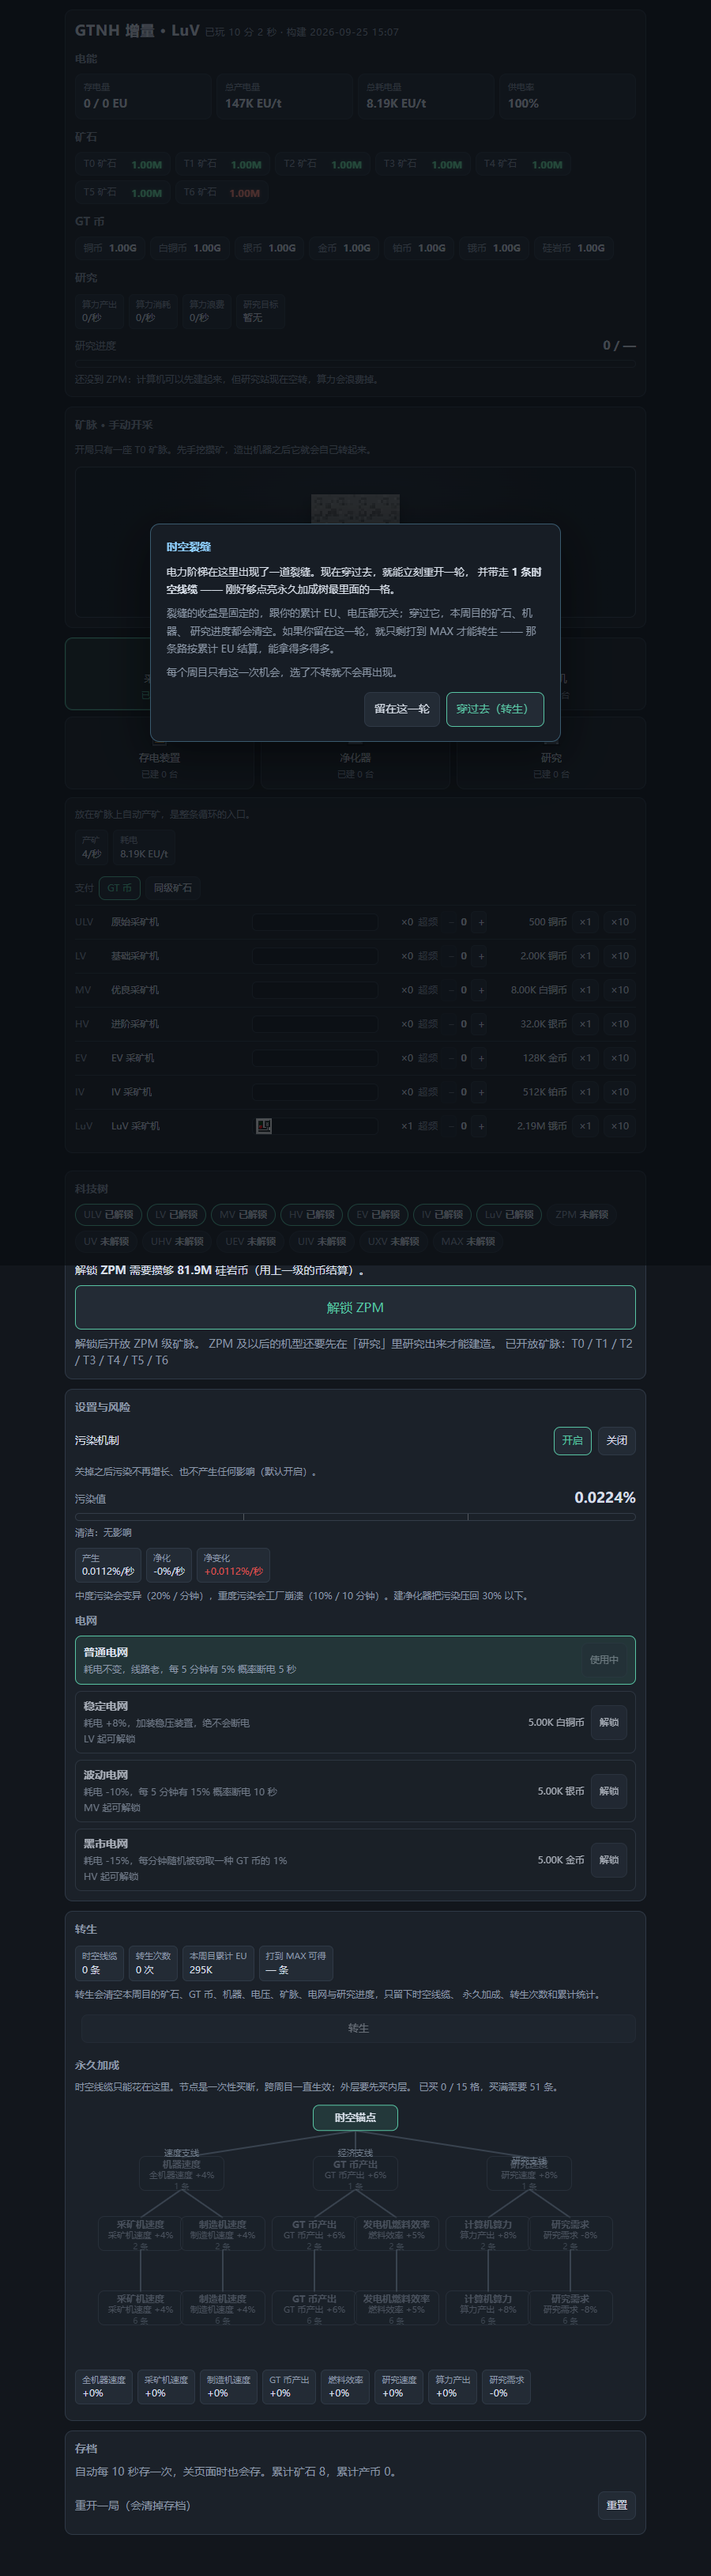
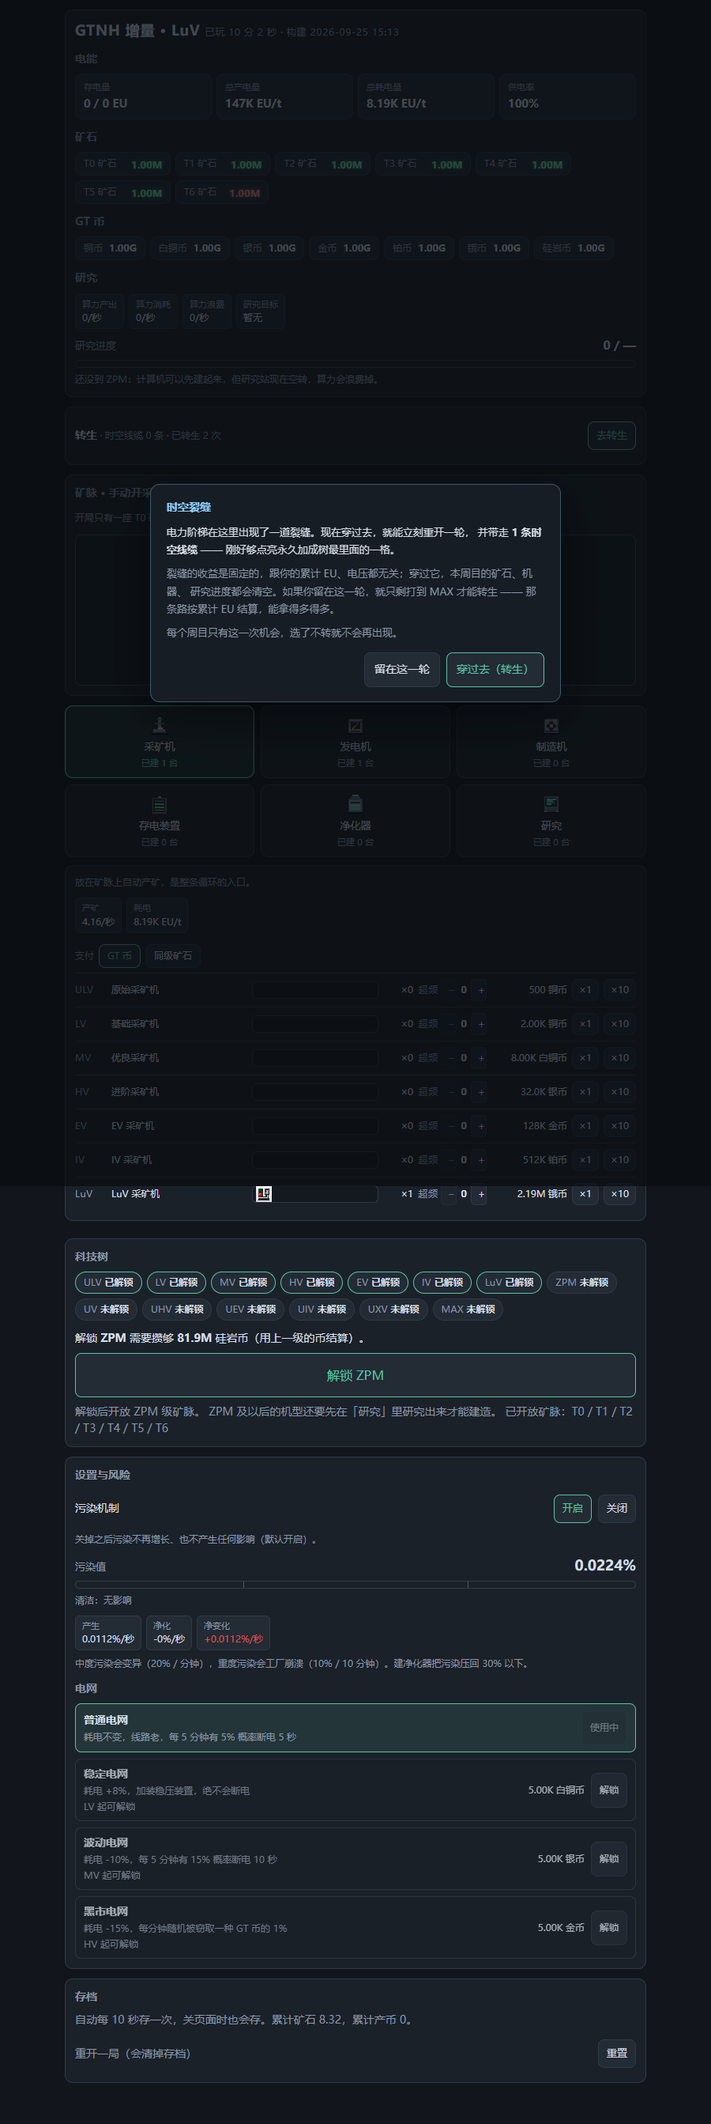
转生改成独立页面：进去之后只显示转生内容
原来转生是接在工厂下面的内嵌面板，改成工厂 / 转生两个独立页面：主界面顶部一行入口（线缆余额与次数摘要 + 去转生按钮），进转生页后工厂的资源条、矿脉、机器、科技树、风险面板一律不渲染，页面里只有转生统计、转生按钮、加成树与已生效加成，点回到工厂返回。时空裂缝拆成独立弹窗，穿过去之后自动进转生页。计划书第十章与 status.md 同步。

diff --git a/src/components/RebirthPage.vue b/src/components/RebirthPage.vue
@@ -3,10 +3,12 @@ import { computed } from 'vue';
 import { useGameStore, type RebirthNodeRow } from '../game/store';
 import { REBIRTH_NODES } from '../game/rebirth';
 
+// 独立的转生页面：进来之后只显示转生相关的东西，工厂界面完全不出现。
+// 从主界面顶部的入口进来，或转生刚发生时自动进来；点「回到工厂」返回。
+const emit = defineEmits<{ close: [] }>();
 const store = useGameStore();
 const rebirth = computed(() => store.snap.rebirth);
 
-// 树的连线：根 → 每条支线的第一格，再按 requires 连到下一层
 interface Link {
   key: string;
   x1: number;
@@ -15,13 +17,22 @@ interface Link {
   y2: number;
 }
 
+// 树的连线：根 → 每条支线的第一格，再按前置关系连到下一层
 const links = computed<Link[]>(() => {
   const byId = new Map(REBIRTH_NODES.map((node) => [node.id, node]));
   const out: Link[] = [];
   for (const node of REBIRTH_NODES) {
-    const parents = node.requires.length === 0 ? [null] : node.requires;
-    for (const parentId of parents) {
-      if (parentId === null) continue;
+    if (node.layer === 1) {
+      out.push({
+        key: `root->${node.id}`,
+        x1: rebirth.value.root.x,
+        y1: rebirth.value.root.y + 16,
+        x2: node.x,
+        y2: node.y - 20,
+      });
+      continue;
+    }
+    for (const parentId of node.requires) {
       const parent = byId.get(parentId);
       if (!parent) continue;
       out.push({
@@ -33,25 +44,14 @@ const links = computed<Link[]>(() => {
       });
     }
   }
-  // 根节点连到三条支线的第一格
-  for (const node of REBIRTH_NODES) {
-    if (node.layer !== 1) continue;
-    out.push({
-      key: `root->${node.id}`,
-      x1: rebirth.value.root.x,
-      y1: rebirth.value.root.y + 16,
-      x2: node.x,
-      y2: node.y - 20,
-    });
-  }
   return out;
 });
 
-const branches = computed(() => [
+const branches = [
   { id: 'speed', title: '速度支线' },
   { id: 'economy', title: '经济支线' },
   { id: 'research', title: '研究支线' },
-]);
+];
 
 function nodeClass(node: RebirthNodeRow) {
   return { owned: node.owned, buyable: !node.owned && node.buyable };
@@ -59,35 +59,44 @@ function nodeClass(node: RebirthNodeRow) {
 </script>
 
 <template>
-  <section class="panel">
-    <h2>转生</h2>
-    <dl class="stats">
-      <div class="stat">
-        <dt>时空线缆</dt>
-        <dd>{{ rebirth.cables }} 条</dd>
+  <section class="panel rebirth-page">
+    <div class="rebirth-head">
+      <div>
+        <h1>转生</h1>
+        <p class="muted small" style="margin: 4px 0 0">
+          转生会清空本周目的矿石、GT 币、机器、电压、矿脉、电网与研究进度，
+          只留下时空线缆、永久加成、转生次数和累计统计。
+        </p>
       </div>
-      <div class="stat">
-        <dt>转生次数</dt>
-        <dd>{{ rebirth.count }} 次</dd>
-      </div>
-      <div class="stat">
-        <dt>本周目累计 EU</dt>
-        <dd>{{ rebirth.runEU }}</dd>
-      </div>
-      <div class="stat">
-        <dt>打到 MAX 可得</dt>
-        <dd>{{ rebirth.maxCables }} 条</dd>
-      </div>
-    </dl>
+      <button @click="emit('close')">回到工厂</button>
+    </div>
 
-    <p class="muted small" style="margin: 8px 0 0">
-      转生会清空本周目的矿石、GT 币、机器、电压、矿脉、电网与研究进度，只留下时空线缆、
-      永久加成、转生次数和累计统计。
-    </p>
+    <div class="power-row">
+      <div class="power-box static">
+        <span class="power-label">时空线缆</span>
+        <b class="power-value">{{ rebirth.cables }} 条</b>
+      </div>
+      <div class="power-box static">
+        <span class="power-label">转生次数</span>
+        <b class="power-value">{{ rebirth.count }} 次</b>
+      </div>
+      <div class="power-box static">
+        <span class="power-label">本周目累计 EU</span>
+        <b class="power-value">{{ rebirth.runEU }}</b>
+      </div>
+      <div class="power-box static">
+        <span class="power-label">打到 MAX 可得</span>
+        <b class="power-value">{{ rebirth.maxCables }} 条</b>
+      </div>
+    </div>
 
-    <div class="row" style="margin-top: 10px">
+    <div class="row" style="margin-top: 12px">
       <div class="name">
-        {{ rebirth.canRebirth ? '已达 MAX，可以转生' : '还没到 MAX，只能等时空裂缝（每周目一次）' }}
+        {{
+          rebirth.canRebirth
+            ? '已达 MAX：现在转生按累计 EU 结算'
+            : '还没到 MAX：只能等时空裂缝（每周目一次）'
+        }}
       </div>
       <button
         class="big"
@@ -147,34 +156,17 @@ function nodeClass(node: RebirthNodeRow) {
       </div>
     </div>
 
+    <h2 class="mt">已生效的加成</h2>
     <dl class="stats">
       <div v-for="bonus in rebirth.bonuses" :key="bonus.label" class="stat">
         <dt>{{ bonus.label }}</dt>
         <dd>{{ bonus.value }}</dd>
       </div>
     </dl>
-  </section>
 
-  <!-- 时空裂缝：本周目第一次到 LuV 时弹一次 -->
-  <Teleport to="body">
-    <div v-if="rebirth.riftPending" class="rift-backdrop">
-      <div class="rift-dialog">
-        <h2>时空裂缝</h2>
-        <p>
-          电力阶梯在这里出现了一道裂缝。现在穿过去，就能立刻重开一轮，
-          并带走 <b>1 条时空线缆</b> —— 刚好够点亮永久加成树最里面的一格。
-        </p>
-        <p class="muted small">
-          裂缝的收益是固定的，跟你的累计 EU、电压都无关；穿过它，本周目的矿石、机器、
-          研究进度都会清空。如果你留在这一轮，就只剩打到 MAX 才能转生 ——
-          那条路按累计 EU 结算，能拿得多得多。
-        </p>
-        <p class="muted small">每个周目只有这一次机会，选了不转就不会再出现。</p>
-        <div class="rift-actions">
-          <button @click="store.declineRift()">留在这一轮</button>
-          <button class="primary" @click="store.rebirth('rift')">穿过去（转生）</button>
-        </div>
-      </div>
+    <div class="row" style="margin-top: 16px">
+      <div class="name muted">加成买完就回工厂继续下一轮</div>
+      <button @click="emit('close')">回到工厂</button>
     </div>
-  </Teleport>
+  </section>
 </template>

diff --git a/src/App.vue b/src/App.vue
@@ -1,14 +1,18 @@
 <script setup lang="ts">
-import { onMounted } from 'vue';
+import { computed, onMounted, ref } from 'vue';
 import { useGameStore } from './game/store';
 import ResourceBar from './components/ResourceBar.vue';
 import MachinePanel from './components/MachinePanel.vue';
 import VeinPanel from './components/VeinPanel.vue';
 import TechTreePanel from './components/TechTreePanel.vue';
 import RiskPanel from './components/RiskPanel.vue';
-import RebirthPanel from './components/RebirthPanel.vue';
+import RebirthPage from './components/RebirthPage.vue';
+import RiftDialog from './components/RiftDialog.vue';
 
 const store = useGameStore();
+// 工厂与转生是两个独立的页面：进转生页时只显示转生内容
+const view = ref<'factory' | 'rebirth'>('factory');
+const rebirth = computed(() => store.snap.rebirth);
 
 onMounted(() => {
   store.boot();
@@ -17,27 +21,43 @@ onMounted(() => {
 </script>
 
 <template>
-  <ResourceBar />
+  <RebirthPage v-if="view === 'rebirth'" @close="view = 'factory'" />
 
-  <VeinPanel />
+  <template v-else>
+    <ResourceBar />
 
-  <MachinePanel :columns="store.snap.columns" />
+    <section class="panel">
+      <div class="row">
+        <div class="name">
+          <b>转生</b>
+          <span class="muted small"> · 时空线缆 {{ rebirth.cables }} 条 · 已转生 {{ rebirth.count }} 次</span>
+        </div>
+        <button :class="{ primary: rebirth.canRebirth || rebirth.riftPending }" @click="view = 'rebirth'">
+          {{ rebirth.canRebirth || rebirth.riftPending ? '去转生' : '查看转生' }}
+        </button>
+      </div>
+    </section>
 
-  <TechTreePanel />
+    <VeinPanel />
 
-  <RiskPanel />
+    <MachinePanel :columns="store.snap.columns" />
 
-  <RebirthPanel />
+    <TechTreePanel />
 
-  <section class="panel">
-    <h2>存档</h2>
-    <p class="muted" style="margin: 0 0 8px">
-      自动每 10 秒存一次，关页面时也会存。累计矿石 {{ store.snap.totalOre }}，累计产币
-      {{ store.snap.totalCoins }}。
-    </p>
-    <div class="row">
-      <div class="name muted">重开一局（会清掉存档）</div>
-      <button @click="store.reset()">重置</button>
-    </div>
-  </section>
+    <RiskPanel />
+
+    <section class="panel">
+      <h2>存档</h2>
+      <p class="muted" style="margin: 0 0 8px">
+        自动每 10 秒存一次，关页面时也会存。累计矿石 {{ store.snap.totalOre }}，累计产币
+        {{ store.snap.totalCoins }}。
+      </p>
+      <div class="row">
+        <div class="name muted">重开一局（会清掉存档）</div>
+        <button @click="store.reset()">重置</button>
+      </div>
+    </section>
+  </template>
+
+  <RiftDialog @accepted="view = 'rebirth'" />
 </template>

diff --git a/src/components/RiftDialog.vue b/src/components/RiftDialog.vue
@@ -1,0 +1,38 @@
+<script setup lang="ts">
+import { computed } from 'vue';
+import { useGameStore } from '../game/store';
+
+// 时空裂缝：本周目第一次到 LuV 时弹一次的offer。
+// 无论选哪边都把这扇门关掉；选「穿过去」由上层切到转生页面。
+const emit = defineEmits<{ accepted: [] }>();
+const store = useGameStore();
+const rebirth = computed(() => store.snap.rebirth);
+
+function accept() {
+  if (store.rebirth('rift') !== null) emit('accepted');
+}
+</script>
+
+<template>
+  <Teleport to="body">
+    <div v-if="rebirth.riftPending" class="rift-backdrop">
+      <div class="rift-dialog">
+        <h2>时空裂缝</h2>
+        <p>
+          电力阶梯在这里出现了一道裂缝。现在穿过去，就能立刻重开一轮，
+          并带走 <b>1 条时空线缆</b> —— 刚好够点亮永久加成树最里面的一格。
+        </p>
+        <p class="muted small">
+          裂缝的收益是固定的，跟你的累计 EU、电压都无关；穿过它，本周目的矿石、机器、
+          研究进度都会清空。如果你留在这一轮，就只剩打到 MAX 才能转生 ——
+          那条路按累计 EU 结算，能拿得多得多。
+        </p>
+        <p class="muted small">每个周目只有这一次机会，选了不转就不会再出现。</p>
+        <div class="rift-actions">
+          <button @click="store.declineRift()">留在这一轮</button>
+          <button class="primary" @click="accept">穿过去（转生）</button>
+        </div>
+      </div>
+    </div>
+  </Teleport>
+</template>

diff --git a/src/style.css b/src/style.css
@@ -562,6 +562,22 @@ h1 .small {
 
 /* 设置与风险：污染条与电网选择 */
 /* 转生：永久加成树 */
+.rebirth-page {
+  max-width: 760px;
+}
+
+.rebirth-head {
+  display: flex;
+  align-items: flex-start;
+  justify-content: space-between;
+  gap: 16px;
+}
+
+.rebirth-head h1 {
+  margin: 0;
+  font-size: 20px;
+}
+
 .rebirth-tree {
   position: relative;
   width: 660px;

diff --git a/docs/status.md b/docs/status.md
@@ -81,8 +81,9 @@ GTNH（GregTech: New Horizons）主题的增量 / 放置游戏：从超低压 UL
   电网 / 研究进度全部重做（研究进度每周目重做是明确要求）
 - 永久加成是一棵树（`src/game/rebirth.ts`）：根 + 三条支线，15 个节点，层价 1 / 2 / 6 条，
   满树 51 条；效果分机器速度、GT 币产出、发电机燃料效率、算力产出、研究速度、研究需求
-- 界面上是转生面板：线缆余额、转生次数、本周目累计 EU、打到 MAX 可得多少条、
-  加成树（SVG 连线 + 节点卡片）与已生效加成汇总
+- 界面是**独立的转生页面**：进页面后工厂内容一律不渲染，页面里只有线缆余额、转生次数、
+  本周目累计 EU、打到 MAX 可得多少条、转生按钮、加成树（SVG 连线 + 节点卡片）与
+  已生效加成汇总；主界面顶部一行入口进入，裂缝转生成功后自动进入
 - 存档升到 v7（线缆、加成节点、转生次数、本周目与历史累计 EU）
 
 ## 5. 接下来：第三阶段（终局与转生）
